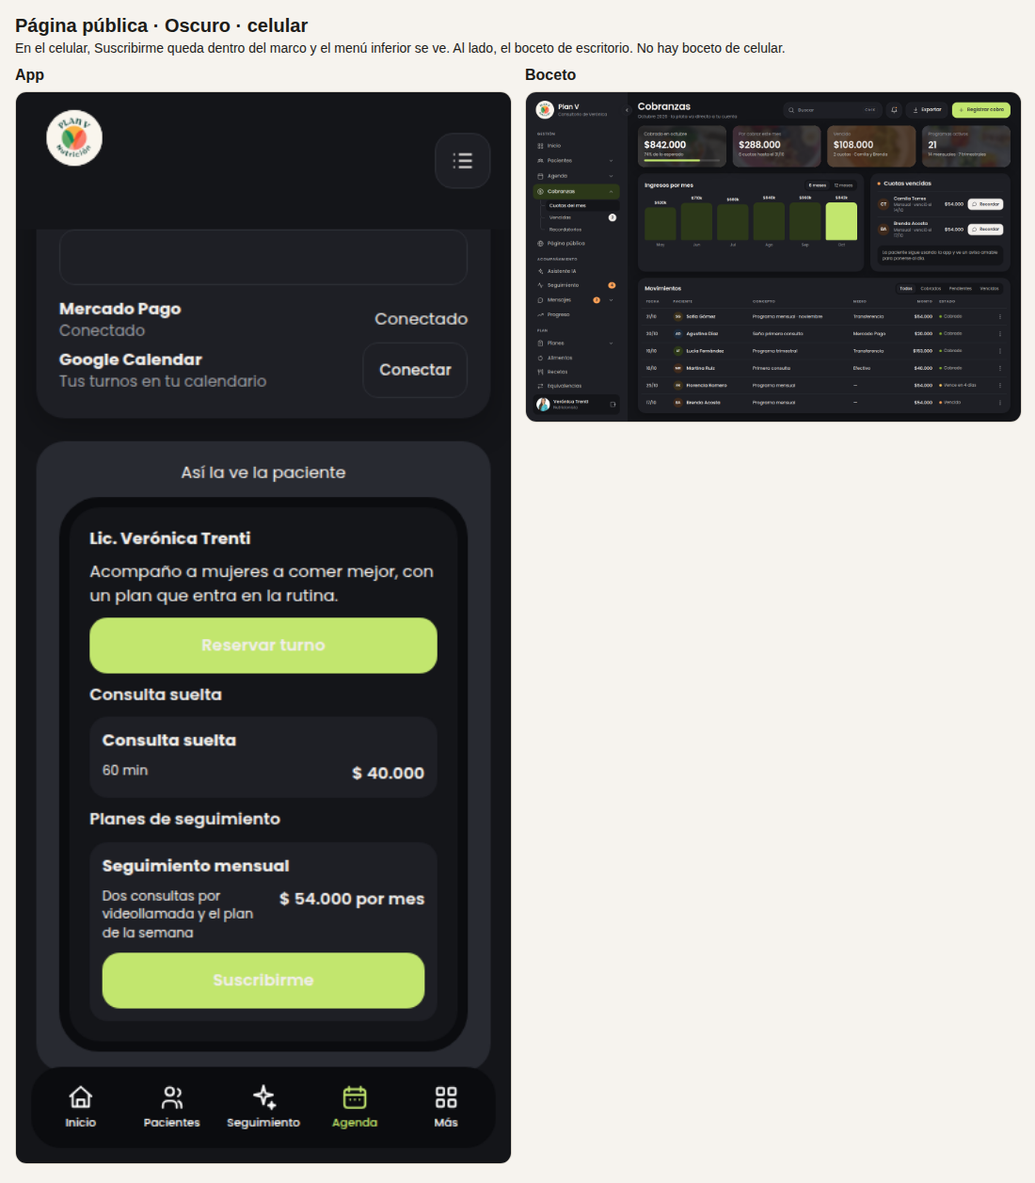
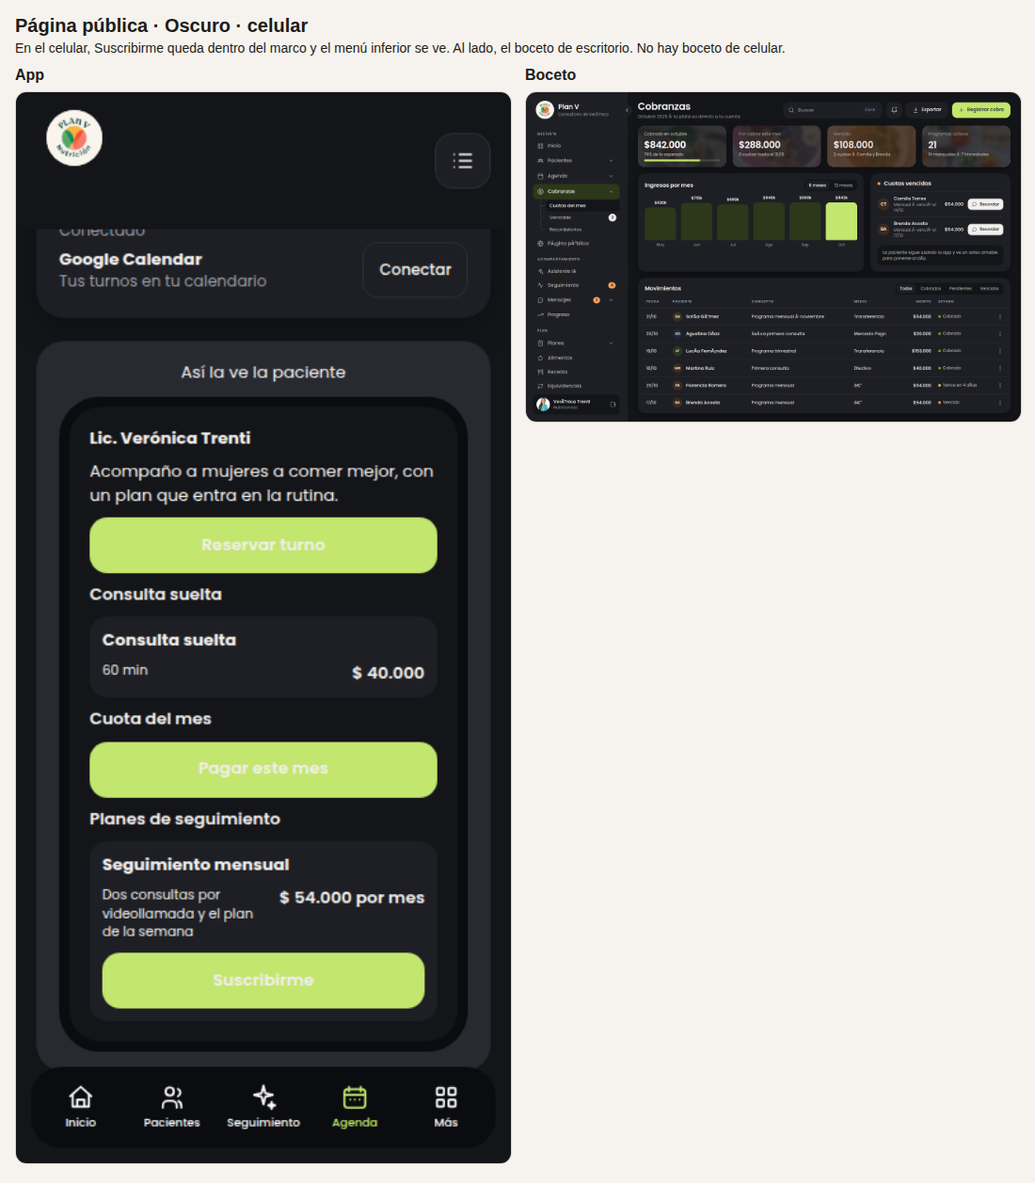
Deja el celular del pago único legible y vuelve a sacar las capturas.
Las cuotas vencidas bajan de renglón, el cuadro del enlace cabe en 360, 390 y 430, y cada captura de celular queda al lado del boceto de escritorio, con el menú inferior.

diff --git a/src/components/nutrigo/panel-fase5.css b/src/components/nutrigo/panel-fase5.css
@@ -109,7 +109,8 @@
 .pn-panel .p5-phone em { margin-left:auto; font-style:normal; font-weight:600; }
 .pn-panel .p5-preview-cta { display:grid; place-items:center; min-height:40px; border-radius:14px; background:var(--pn-lime); font-weight:600; }
 .pn-panel .p5-dialog { position:fixed; inset:0; z-index:40; background:color-mix(in srgb,var(--pn-solid) 35%,transparent); display:grid; place-items:center; padding:18px; }
-.pn-panel .p5-dialog form,.pn-panel .p5-dialog .p5-card,.pn-panel .p5-dialog .cbz-panel,.pn-panel .p5-dialog-wide>.p5-card { width:min(520px,100%); max-height:min(84dvh,760px); overflow:auto; background:var(--pn-white); border-radius:22px; padding:18px; }
+.pn-panel .p5-dialog form,.pn-panel .p5-dialog .p5-card,.pn-panel .p5-dialog .cbz-panel,.pn-panel .p5-dialog-wide>.p5-card { width:min(520px,calc(100vw - 36px)); max-width:100%; box-sizing:border-box; max-height:min(84dvh,760px); overflow:auto; background:var(--pn-white); border-radius:22px; padding:18px; }
+.pn-panel .p5-dialog :is(input,select) { width:100%; max-width:100%; box-sizing:border-box; min-height:44px; }
 .pn-panel .p5-dialog-wide .cbz-panel { width:min(720px,100%); }
 .pn-panel .p5-row { display:flex; justify-content:flex-end; gap:8px; }
 @media (max-width:800px) {
@@ -130,6 +131,8 @@
   .pn-panel .p5-moves li { display:flex; flex-direction:column; align-items:stretch; gap:6px; min-width:0; padding:12px; border-radius:16px; background:var(--pn-fill); }
   .pn-panel .p5-moves p { margin:0; overflow-wrap:break-word; }
   .pn-panel .p5-move-meta { display:flex; flex-wrap:wrap; align-items:center; gap:8px; }
+  .pn-panel .p5-li { flex-wrap:wrap; }
+  .pn-panel .p5-tx { flex:1 0 10rem; }
   .pn-panel .p5-debit { flex-direction:column; align-items:stretch; }
   .pn-panel .p5-debit .p5-tx { flex:none; width:100%; }
   .pn-panel .p5-phone { width:100%; box-sizing:border-box; }

diff --git a/src/components/nutrigo/panel-mobile.test.ts b/src/components/nutrigo/panel-mobile.test.ts
@@ -14,7 +14,10 @@ describe('celular de cobranzas', () => {
   it('apila el débito y los movimientos, y no parte los nombres por letra', () => {
     expect(fase5).toMatch(/\.pn-panel \.p5-tx b,\.pn-panel \.p5-tx span,\.pn-panel \.p5-link \{ display:block; overflow-wrap:break-word; word-break:normal; \}/);
     expect(fase5).toMatch(/\.pn-panel \.p5-who b \{ overflow-wrap:break-word; word-break:normal; \}/);
+    expect(mobile).toMatch(/\.pn-panel \.p5-li \{ flex-wrap:wrap; \}/);
+    expect(mobile).toMatch(/\.pn-panel \.p5-tx \{ flex:1 0 10rem; \}/);
     expect(mobile).toMatch(/\.pn-panel \.p5-debit \{ flex-direction:column; align-items:stretch; \}/);
+    expect(fase5).toMatch(/\.pn-panel \.p5-dialog :is\(input,select\) \{ width:100%; max-width:100%; box-sizing:border-box; min-height:44px; \}/);
     expect(mobile).toMatch(/\.pn-panel \.p5-table-wrap \{ display:none; \}/);
     expect(mobile).toMatch(/\.pn-panel \.p5-moves \{ display:flex; flex-direction:column;/);
     expect(mobile).toMatch(/\.pn-panel \.p5-seg \{ flex-wrap:wrap;/);

diff --git a/docs/suscripciones-pacientes/spec.md b/docs/suscripciones-pacientes/spec.md
@@ -1,15 +1,17 @@
 # Spec: suscripciones de pacientes con Mercado Pago (Plan V)
 
 Versión 1 · 19/10/2026. Las preguntas P1–P10 quedaron cerradas el 19/10 (sección 7.3). La migración se escribe y **no se aplica**; no se toca Railway, Supabase de producción ni Mercado Pago.
-Base de la parte 1: `origin/main` en `c09466b` (fases 4 y 5 ya juntas). El backend vive en `cursor/suscripciones-pacientes-backend` ([PR #155](https://github.com/Facu42/plan-v/pull/155)). Las pantallas de Cobranzas y de la página pública viven en `cursor/suscripciones-cobranzas-pagina` ([PR #156](https://github.com/Facu42/plan-v/pull/156), borrador, apilado sobre el backend y no sobre main). El pago único de la cuota (sección 2.9) se hace en `cursor/pago-mensual-unico`, apilado sobre las pantallas y no sobre main.
+Base de la parte 1: `origin/main` en `c09466b` (fases 4 y 5 ya juntas). El backend vive en `cursor/suscripciones-pacientes-backend` ([PR #155](https://github.com/Facu42/plan-v/pull/155)). Las pantallas de Cobranzas y de la página pública viven en `cursor/suscripciones-cobranzas-pagina` ([PR #156](https://github.com/Facu42/plan-v/pull/156), borrador, apilado sobre el backend y no sobre main). El pago único de la cuota (sección 2.9) está en `cursor/pago-mensual-unico` ([PR #157](https://github.com/Facu42/plan-v/pull/157), borrador, apilado sobre las pantallas y no sobre main).
 
-## Estado al cerrar la parte 2 (19/10, noche)
+## Estado al cerrar el pago único (19/10, noche)
 
 Otro agente puede seguir desde acá sin el chat.
 
 ### Hecho
 - **Parte 1, backend.** Rama `cursor/suscripciones-pacientes-backend`, [PR #155](https://github.com/Facu42/plan-v/pull/155) contra `main`. Trae el merge de main `c09466b` (fase 4 y fase 5). Migración `20261020120000_patient_subscriptions.sql` escrita y sin aplicar. Bandera `PATIENT_SUBSCRIPTIONS_ENABLED` apagada. Webhook general, alta con el token de la nutri, un cobro por aviso, anulación si hay devolución, conciliación y enlaces que vencen a los 7 días.
-- **Parte 2, pantallas.** Rama `cursor/suscripciones-cobranzas-pagina`, [PR #156](https://github.com/Facu42/plan-v/pull/156) contra la rama del backend. Cobranzas (4.1), página pública del panel (4.2) y la página donde la paciente elige el plan (4.3), con la vuelta `/consultorio/<slug>/suscripcion/<id>`. Si la bandera está apagada, el servidor responde 404 y no se ve nada nuevo. Pruebas de esta rama: 3.228 aprobadas y 2 omitidas, en 507 archivos. `npm run check` en verde. No se aplicó la migración.
+- **Parte 2, pantallas.** Rama `cursor/suscripciones-cobranzas-pagina`, [PR #156](https://github.com/Facu42/plan-v/pull/156) contra la rama del backend. Cobranzas (4.1), página pública del panel (4.2) y la página donde la paciente elige el plan (4.3), con la vuelta `/consultorio/<slug>/suscripcion/<id>`. Si la bandera está apagada, el servidor responde 404 y no se ve nada nuevo.
+- **Pago único del mes (2.9).** Rama `cursor/pago-mensual-unico`, [PR #157](https://github.com/Facu42/plan-v/pull/157) contra las pantallas. La nutri genera el enlace desde Cobranzas o desde la fila de la paciente, lo copia, y la paciente lo paga en Pagos o en la página pública. El cobro entra una vez en Movimientos, ligado a esa cuota y a ese mes. Con débito activo no se ofrece. Migración `20261020143000_patient_fee_checkouts.sql` escrita y sin aplicar. Esta rama también trae el arreglo de celular del PR #156. Pruebas: 3.243 aprobadas y 2 omitidas, en 511 archivos. No se tocó la ficha ni el chat.
+- **Celular de lo que ya está en main.** Rama `cursor/arreglo-mobile-fase5`, [PR #158](https://github.com/Facu42/plan-v/pull/158) contra `main`. Agenda y Cobranzas dejan de repetir el título, el selector de paciente no aparece ahí, los turnos son filas con la etiqueta en una pastilla, y el menú inferior no tapa el final. No se junta a esta pila.
 
 ### Decisiones que las pantallas respetan
 - Sin comisión, sin prueba gratis y solo mensual. El formulario dice «Se cobra una vez por mes». No hay campo de prueba ni de otra frecuencia.
@@ -23,18 +25,18 @@ Otro agente puede seguir desde acá sin el chat.
 - Un cobro que viene del débito se lee «Débito automático · …» en Movimientos.
 - Cada plan tiene su interruptor para la página pública. Sin Mercado Pago el interruptor queda apagado y bloqueado.
 - La vista `/?vista=suscripciones` solo existe en el servidor de desarrollo, para las capturas. No es un modo demo de producción.
-- El boceto (`design/panel-nutri/bocetos.html`, `#cobranzas` y `#publica`) no dibuja la tarjeta de débito ni el formulario de la paciente, y en «Recordar» todavía muestra WhatsApp. La app no. Las capturas de la app están al lado del boceto en `design/suscripciones/`.
+- El boceto (`design/panel-nutri/bocetos.html`, `#cobranzas` y `#publica`) no dibuja la tarjeta de débito, el enlace de un mes ni el formulario de la paciente, y en «Recordar» todavía muestra WhatsApp. La app no. Las capturas de la app están al lado del boceto de escritorio en `design/suscripciones/`. No hay boceto de celular. En escritorio se ve el menú lateral. En el celular se ve el menú inferior fijo, salvo en el cuadro de «Cobrar este mes», que lo tapa mientras está abierto. Siguen saliendo de la vista de desarrollo `/?vista=suscripciones` porque la función está apagada y, en el panel de todos los días, esos bloques no aparecen. Esa vista usa el marco real del panel: un solo título y sin el selector de paciente.
+- En Pagos, el botón «Pagar este mes» es el pago único de 2.9. La tarjeta del débito en la app de la paciente sigue para 4.6.
 
 ### Qué falta
-- **Pago único de la cuota (2.9).** Pedido por Facu el 19/10 a la noche. No es una suscripción: es un enlace de Mercado Pago de un solo mes, para una paciente que ya tiene cuota manual. Se implementa en `cursor/pago-mensual-unico`, desde `cursor/suscripciones-cobranzas-pagina`, con PR borrador contra esa rama. Misma bandera apagada. Si hace falta tabla nueva, la migración se escribe y no se aplica.
-- **Parte 3.** Ficha (4.4) y chat (4.5). Quedan para después del pago único. Crear `cursor/suscripciones-ficha-chat` desde la rama que corresponda cuando 2.9 esté cerrada. No mergear #155 ni #156.
-- **App de la paciente para el débito (4.6).** Después, en `cursor/suscripciones-app-paciente`. Incluye la baja que Facu ya aprobó (P4). El botón para pagar la cuota de un mes (2.9) sí entra en esta parte, en Pagos, y no es la ficha ni el chat.
+- **Parte 3.** Ficha (4.4) y chat (4.5). Crear `cursor/suscripciones-ficha-chat` desde `cursor/pago-mensual-unico`. No mergear #155, #156, #157 ni #158.
+- **App de la paciente para el débito (4.6).** Después, en `cursor/suscripciones-app-paciente`. Incluye la baja que Facu ya aprobó (P4). El botón para pagar la cuota de un mes ya está en Pagos.
 - **Sandbox de Mercado Pago (6.3).** Sigue pendiente. Un script aparte, sin producción. No afirmar que ya se cobró de verdad.
-- **Facu.** Aplicar la migración con su frase, prender la bandera y tildar «Planes y suscripciones» y «Vinculación de aplicaciones». Sigue anotado en el PR #155.
+- **Facu.** Aplicar las dos migraciones (`20261020120000` y `20261020143000`) con su frase, prender la bandera y tildar «Planes y suscripciones» y «Vinculación de aplicaciones».
 - Nada de merge, Railway, Vercel, Supabase de producción ni Mercado Pago hasta esa frase.
 
 ### Próximo paso concreto
-Implementar la sección 2.9 en `cursor/pago-mensual-unico`. Al cerrar, actualizar este archivo, la bitácora de `docs/panel-nutri-rediseno/plan.md` y `docs/coordinacion-agentes.md`, y dejar las capturas de la app junto al boceto, con el menú lateral del panel real.
+Crear `cursor/suscripciones-ficha-chat` desde `cursor/pago-mensual-unico` y hacer la ficha (4.4) y el chat (4.5). Al cerrar, actualizar este archivo, la bitácora de `docs/panel-nutri-rediseno/plan.md` y `docs/coordinacion-agentes.md`.
 
 ---
 
@@ -180,6 +182,8 @@ Pedido por Facu el 19/10. No reemplaza al débito ni a la consulta suelta. Sirve
 10. Todo detrás de `PATIENT_SUBSCRIPTIONS_ENABLED`. Apagada, las rutas responden 404 y no se ve el botón.
 
 La consulta suelta no se toca. La ficha y el chat no se tocan en esta parte.
+
+Hecho en `cursor/pago-mensual-unico`, [PR #157](https://github.com/Facu42/plan-v/pull/157). La tabla nueva es `patient_fee_checkouts`, en `supabase/migrations/20261020143000_patient_fee_checkouts.sql`, escrita y sin aplicar. El mes cubierto queda en `covers_due_on`. Un segundo pago del mismo mes no se anota.
 
 ---
 
@@ -529,7 +533,7 @@ Una rama y un PR por tema. Las migraciones van con fecha ≥ 20261019000000 y **
 | 1 | Codex (o Cursor si Facu autoriza) | `codex/suscripciones-spike-sandbox` | Script de prueba con cuentas de prueba: los 5 puntos de 6.3. Sin tocar producción. | 0 |
 | 2 | Cursor | `cursor/suscripciones-pacientes-backend` | Migración (sin aplicar), endpoints, webhook general, worker, conciliación, libro, push `subscription`, pruebas. Bandera apagada. | Decisiones de 7.3 |
 | 3 | Cursor | `cursor/suscripciones-cobranzas-pagina` | Cobranzas (4.1), Página pública (4.2) y página `/consultorio` (4.3). Hecho en el [PR #156](https://github.com/Facu42/plan-v/pull/156), borrador contra la rama del backend. Bandera apagada. Capturas en `design/suscripciones/` | #153 ya está en main; contratos de 2 |
-| 3b | Cursor | `cursor/pago-mensual-unico` | Pago único de la cuota del mes (2.9). Enlace de Checkout Pro, libro con `source` `checkout`, app y página pública. Bandera apagada. Migración nueva solo si hace falta, sin aplicar | 3 |
+| 3b | Cursor | `cursor/pago-mensual-unico` | Pago único de la cuota del mes (2.9). Hecho en el [PR #157](https://github.com/Facu42/plan-v/pull/157), borrador contra las pantallas. Migración `20261020143000` escrita y sin aplicar. Bandera apagada | 3 |
 | 4 | Cursor | `cursor/suscripciones-ficha-chat` | Ficha (4.4) y chat (4.5). Después de 3b | Fase 4 mergeada; 3b |
 | 5 | Lane de la app de pacientes (o Cursor) | `cursor/suscripciones-app-paciente` | Pagos (4.6) y aviso en Inicio | 2 |
 | 6 | Facu | — | Aplica la migración con su frase, configura Mercado Pago (6.1), prende la bandera en Railway | 2–5 en verde |
@@ -615,7 +619,7 @@ Estas decisiones reemplazan P1–P10. El backend de esta rama las cumple.
 - **P7. Equipo.** Solo la nutri activa, pausa, reanuda o cancela débitos. Recepción y equipo solo ven.
 - **P8. Página pública.** Se ofrece en la página pública y también por link. Cada plan tiene su interruptor para mostrarse o no.
 - **P9. Medios de pago.** Se aceptan todos los medios que ofrezca Mercado Pago. No se filtran.
-- **P10. Quién programa.** Cursor hace el backend y las pantallas. El backend está en el PR #155. Cobranzas y la página pública están en el PR #156. El pago único del mes va en `cursor/pago-mensual-unico`. Después faltan la ficha, el chat y el débito dentro de la app de la paciente.
+- **P10. Quién programa.** Cursor hace el backend y las pantallas. El backend está en el PR #155. Cobranzas y la página pública están en el PR #156. El pago único del mes está en el PR #157. Después faltan la ficha, el chat y el débito dentro de la app de la paciente.
 
 ---
 

diff --git a/docs/coordinacion-agentes.md b/docs/coordinacion-agentes.md
@@ -1,4 +1,4 @@
-19/10 noche · Cursor · Facu pidió el pago único de la cuota del mes, sin suscripción (spec 2.9). Se abre `cursor/pago-mensual-unico` desde `cursor/suscripciones-cobranzas-pagina` ([PR #156](https://github.com/Facu42/plan-v/pull/156)), borrador apilado sobre esa rama y no sobre main. Misma bandera apagada. No se toca la ficha ni el chat. El débito sigue en el backend ([PR #155](https://github.com/Facu42/plan-v/pull/155)). Sin merge, sin migración aplicada y sin producción.
+19/10 noche · Cursor · El pago único de la cuota del mes quedó en `cursor/pago-mensual-unico` ([PR #157](https://github.com/Facu42/plan-v/pull/157), borrador contra las pantallas del [PR #156](https://github.com/Facu42/plan-v/pull/156)). Bandera apagada. Migración `20261020143000` escrita y sin aplicar. No se tocó la ficha ni el chat. El débito sigue en el [PR #155](https://github.com/Facu42/plan-v/pull/155). Sin merge y sin producción. Siguiente: ficha y chat desde esta rama.
 
 # Coordinación entre agentes (Claude, Codex, Cursor)
 
@@ -33,7 +33,7 @@ visto bueno de Facundo.
 | Alternativas por comida (la paciente elige) | Claude | — | **Espera a que #108 esté en `main`** (usa sus intercambios) |
 | Página pública con paquetes, resumen de la mañana para la nutri, Centro de ayuda | — | — | **En espera.** Codex tiene piezas parecidas; Facundo decide cuál sigue |
 | Rediseño del panel de la nutri (bocetos aprobados y plan por fases) | Claude (bocetos y plan); Codex (fases 1 a 4); Cursor (fase 5) | Fases 1 a 5 en main (`c09466b`). [Plan](panel-nutri-rediseno/plan.md) | Fase 4 integrada por #154. Fase 5 integrada por #153. Una rama y un PR por fase; no se usa el PR #147 |
-| Suscripciones de pacientes (débito con Mercado Pago de la nutri) | Cursor | Backend `cursor/suscripciones-pacientes-backend` ([PR #155](https://github.com/Facu42/plan-v/pull/155)). Pantallas `cursor/suscripciones-cobranzas-pagina` ([PR #156](https://github.com/Facu42/plan-v/pull/156), borrador contra el backend). Pago único del mes: `cursor/pago-mensual-unico`, desde las pantallas. [Spec](suscripciones-pacientes/spec.md) sección 2.9 | Parte 1 y parte 2 listas en borrador. El pago único está registrado y en curso. Bandera apagada. Migraciones sin aplicar. Después: ficha y chat, el débito en la app de la paciente, y el sandbox. No mergear |
+| Suscripciones de pacientes (débito con Mercado Pago de la nutri) | Cursor | Backend `cursor/suscripciones-pacientes-backend` ([PR #155](https://github.com/Facu42/plan-v/pull/155)). Pantallas `cursor/suscripciones-cobranzas-pagina` ([PR #156](https://github.com/Facu42/plan-v/pull/156)). Pago único `cursor/pago-mensual-unico` ([PR #157](https://github.com/Facu42/plan-v/pull/157), borrador contra las pantallas). [Spec](suscripciones-pacientes/spec.md) sección 2.9 | Partes 1, 2 y el pago único listos en borrador. Bandera apagada. Las dos migraciones sin aplicar. Siguiente: ficha y chat desde `cursor/pago-mensual-unico`. Después, el débito en la app y el sandbox. No mergear |
 
 ## 2. Reglas para no pisarse
 
@@ -66,6 +66,7 @@ visto bueno de Facundo.
 | `20261015210000_activity_kcal` | Claude | PR #122, en main `9c56854`; ya observada aplicada con alias `20261015173356`. Se conserva como base exacta, no pendiente |
 | `20261015*` en adelante | Claude | Se anotan acá al crearlas |
 | `20261020120000_patient_subscriptions` | Cursor | Escrita el 19/10. Sin aplicar. Hace falta la frase de Facundo |
+| `20261020143000_patient_fee_checkouts` | Cursor | Escrita el 19/10, en `cursor/pago-mensual-unico`. Sin aplicar. Hace falta la frase de Facundo |
 
 ## 4. Decisiones vigentes de Facundo (fechadas)
 
@@ -84,8 +85,9 @@ del piloto, entidad legal.
 
 ## 5. Bitácora de traspaso (la más nueva arriba)
 
+- **19/10 · Cursor · Pago único de la cuota, cerrado** · [PR #157](https://github.com/Facu42/plan-v/pull/157), rama `cursor/pago-mensual-unico`, borrador contra `cursor/suscripciones-cobranzas-pagina`. Enlace de un mes, sin suscripción. El cobro entra una vez en Movimientos. Con débito activo no se ofrece. Migración `20261020143000` escrita y sin aplicar. Trae el arreglo de celular del [PR #156](https://github.com/Facu42/plan-v/pull/156): el débito y las cuotas vencidas se leen en columna, Movimientos es una lista en el celular, y el menú inferior queda fijo. Capturas nuevas en `design/suscripciones/`, el celular al lado del boceto de escritorio. 3.243 pruebas y 2 omitidas, tipos en verde. Sin ficha, sin chat, sin merge y sin producción. Lo de Agenda que ya está en main va en [PR #158](https://github.com/Facu42/plan-v/pull/158). Siguiente: `cursor/suscripciones-ficha-chat` desde esta rama.
 - **19/10 · Cursor · Celular de las pantallas de suscripciones** · Facu rechazó el celular de 390. En [PR #156](https://github.com/Facu42/plan-v/pull/156) el débito y los movimientos se leen en columna, las pestañas bajan de renglón, Suscribirme queda dentro del marco y el menú inferior queda fijo. Capturas nuevas en `design/suscripciones/`, el celular al lado del boceto de escritorio. 3.230 pruebas y 2 omitidas, tipos en verde. Lo de Agenda y Cobranzas que ya está en main va en otra rama, `cursor/arreglo-mobile-fase5`.
-- **19/10 · Cursor · Pago único de la cuota, registrado** · Facu pidió cobrar un mes suelto por Mercado Pago, sin suscripción. Quedó en la spec, sección 2.9. Rama `cursor/pago-mensual-unico`, desde `cursor/suscripciones-cobranzas-pagina`, PR borrador contra esa rama. La nutri copia el enlace; la paciente paga desde la app o la página pública; el cobro entra una vez en Movimientos y la cuota pasa a «Al día». Con débito activo no se ofrece. Bandera apagada. Sin ficha, sin chat, sin merge y sin producción. Siguiente: implementarlo en esa rama y, al cerrar, actualizar spec, bitácora y este archivo.
+- **19/10 · Cursor · Pago único de la cuota, registrado** · Facu pidió cobrar un mes suelto por Mercado Pago, sin suscripción. Quedó en la spec, sección 2.9, antes de programarlo.
 - **19/10 · Cursor · Pantallas de suscripciones** · [PR #156](https://github.com/Facu42/plan-v/pull/156), rama `cursor/suscripciones-cobranzas-pagina`, borrador contra `cursor/suscripciones-pacientes-backend`. Cobranzas, página pública del panel y la página donde la paciente elige el plan. Bandera apagada. 3.228 pruebas y dos omitidas, tipos en verde. Capturas de la app junto al boceto en `design/suscripciones/`. No se tocó la ficha ni el chat. Sin merge, sin migración aplicada y sin producción. La ficha y el chat quedan después del pago único. El sandbox de Mercado Pago sigue pendiente.
 - **19/10 · Cursor · Backend de suscripciones** · [PR #155](https://github.com/Facu42/plan-v/pull/155), rama `cursor/suscripciones-pacientes-backend`. Migración `20261020120000_patient_subscriptions` escrita y sin aplicar. Webhook general de Mercado Pago, alta con el token de la nutri, cobro único en Cobranzas, anulación por devolución, conciliación cada 6 horas y links que vencen a los 7 días. Bandera apagada. Sin pantallas del panel. 3.185 pruebas y dos omitidas, tipos y migraciones en verde. La prueba en sandbox de Mercado Pago sigue pendiente. Main (fases 4 y 5) quedó unido a esta rama.
 - **19/10 · Cursor · Fase 5 con la fase 4** · Se trajo main (fase 4, #154) a `cursor/panel-nutri-fase-5`. Conviven el armazón, la ficha y Agenda, Cobranzas y Página pública. [PR #153](https://github.com/Facu42/plan-v/pull/153), sin juntar hasta que los controles estén verdes.

diff --git a/docs/panel-nutri-rediseno/plan.md b/docs/panel-nutri-rediseno/plan.md
@@ -244,6 +244,13 @@ Facundo pidió que funcionen. Verificar primero si ya existen en `main`; si no, 
 
 ## 8. Bitácora (una entrada por paso, la más nueva arriba)
 
+### 2026-10-19 23:50 · Cursor · Pago único, con el celular que Facu rechazó
+- Hecho: el enlace de un mes sigue en esta rama, y ahora el celular no parte los nombres. En 360, 390 y 430 el débito, las cuotas vencidas y los movimientos se leen en columna o en tarjetas. El cuadro del enlace cabe en la pantalla y sus campos miden 44 px. El menú inferior queda fijo. No se repite el título ni aparecen los accesos de paciente en la vista previa.
+- Cómo: se aplicaron break-ui, frontend-patterns, frontend-a11y y verification-loop. Las vistas siguen recibiendo los mismos datos. No hay un interruptor de peor caso. Las capturas de celular se sacaron de nuevo dentro del panel, con el menú inferior, y quedaron al lado del boceto de escritorio en `design/suscripciones/`. No hay boceto de celular. El cuadro de «Cobrar este mes» tapa el menú mientras está abierto.
+- Rama y PR: `cursor/pago-mensual-unico`, [PR #157](https://github.com/Facu42/plan-v/pull/157), borrador contra `cursor/suscripciones-cobranzas-pagina`. 3.243 pruebas y 2 omitidas, en 511 archivos. Lo de Agenda que ya está en main va en `cursor/arreglo-mobile-fase5`, [PR #158](https://github.com/Facu42/plan-v/pull/158).
+- Falta: ficha, chat, el débito en la app de la paciente y la prueba en sandbox. Facu tiene que aplicar las dos migraciones y prender la bandera.
+- Próximo paso exacto: crear `cursor/suscripciones-ficha-chat` desde esta rama y hacer la ficha (4.4) y el chat (4.5).
+
 ### 2026-10-19 23:20 · Cursor · Celular de Cobranzas y de la página pública
 - Hecho: Facu rechazó el celular. En la tarjeta de débito el nombre se lee en una línea. En el celular, Movimientos es una lista de tarjetas. Las pestañas bajan de renglón. Suscribirme queda dentro del marco de la vista previa. El menú inferior queda fijo y no tapa el final. Nada se corta en 360, 390 ni 430, y los botones miden al menos 44 px.
 - Cómo: se aplicaron break-ui, frontend-patterns, frontend-a11y y verification-loop. Las vistas siguen recibiendo los mismos datos. Las capturas de celular se sacaron de nuevo dentro del panel, con el menú inferior, y quedaron al lado del boceto de escritorio en `design/suscripciones/`. No hay boceto de celular.

diff --git a/docs/traspaso-estado-proyecto.md b/docs/traspaso-estado-proyecto.md
@@ -1,6 +1,6 @@
 # Traspaso del proyecto (actualización vigente: 2026-10-19)
 
-19/10 · Cursor · Facu pidió el pago único de la cuota del mes, sin suscripción. Quedó en la [spec](suscripciones-pacientes/spec.md) (2.9). La rama es `cursor/pago-mensual-unico`, desde las pantallas ([PR #156](https://github.com/Facu42/plan-v/pull/156)). La función sigue apagada. No se toca la ficha ni el chat. El sandbox sigue pendiente.
+19/10 · Cursor · El pago único de la cuota del mes quedó en `cursor/pago-mensual-unico` ([PR #157](https://github.com/Facu42/plan-v/pull/157), borrador contra las pantallas), con el arreglo de celular de esas pantallas. La migración `20261020143000` está escrita y sin aplicar. La función sigue apagada. El celular de Agenda y Cobranzas que ya está en main va aparte, en `cursor/arreglo-mobile-fase5` ([PR #158](https://github.com/Facu42/plan-v/pull/158)). No se tocó la ficha ni el chat. El sandbox sigue pendiente. El siguiente paso es la ficha y el chat, desde la rama del pago único. Detalle en la [spec](suscripciones-pacientes/spec.md) (2.9).
 
 19/10 · Cursor · Backend de suscripciones de pacientes en `cursor/suscripciones-pacientes-backend`. La migración queda escrita y sin aplicar. La función está apagada. Las pantallas de Cobranzas y de la página pública van en otra rama. Detalle en [spec](suscripciones-pacientes/spec.md). Main ya tiene las fases 4 y 5 del panel (`c09466b`).
 
